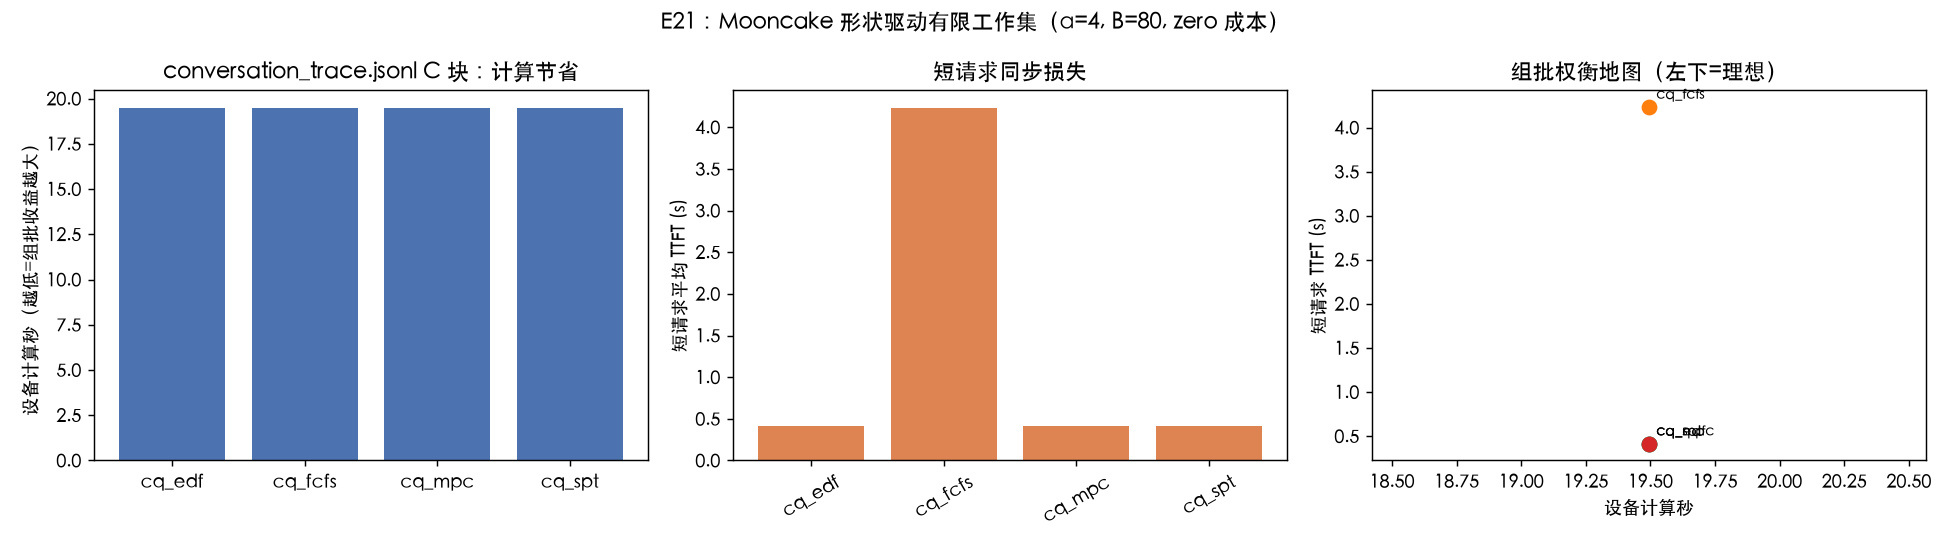
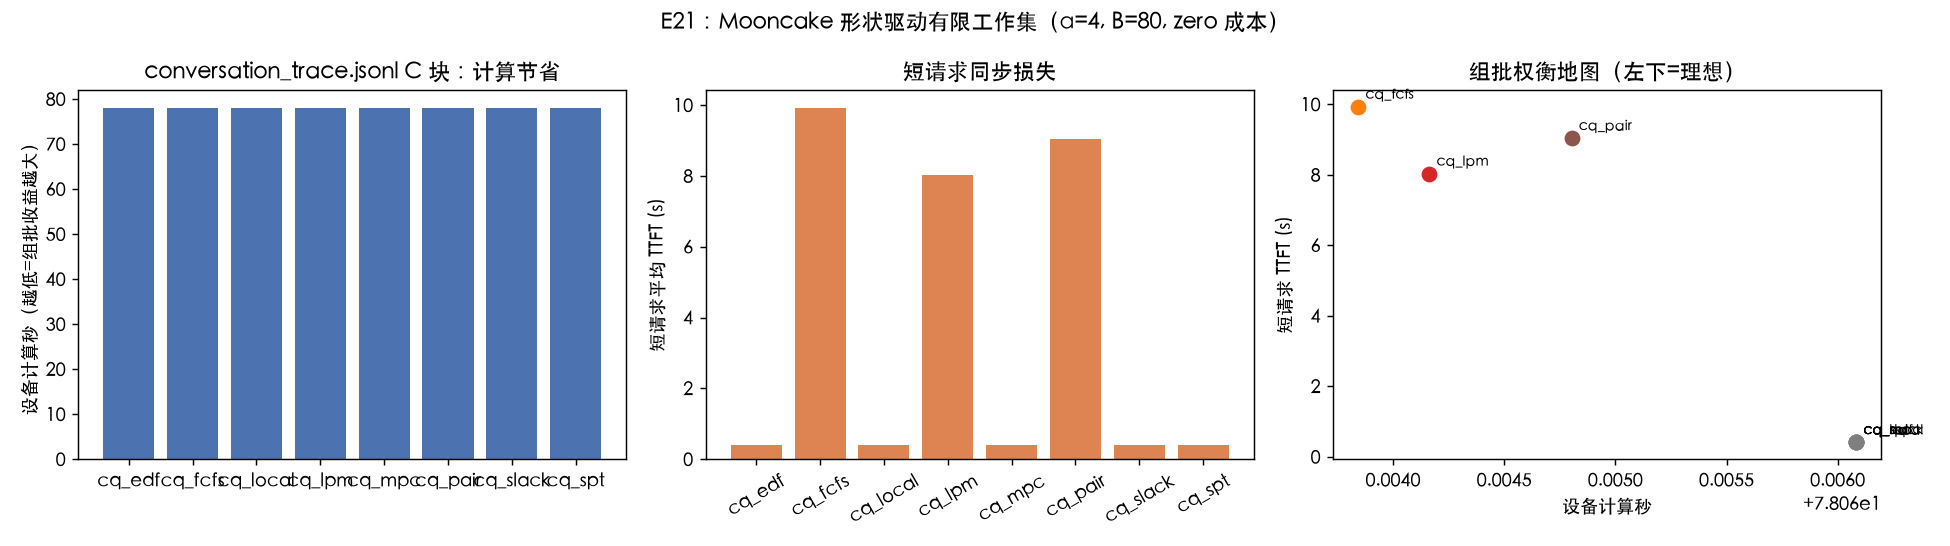
docs: 测试报告补 §3.7——E21/E24 全策略评价(720+69 runs)与 eval 图发布
- E21(8 策略×3 文件×5 窗×3 能力×2 profile):有限工作集上排序类满足率
  翻倍(0.072→0.138)、TTFT -60%,与在线流 §3.6 的 SLO 无增量方向相反且
  不矛盾(全体同时到达时无新到达插队惩罚)——划出收益适用边界;
  G_total=1.005 第三次确认组批计算节省≈0;MPC/local 与 SPT/EDF 仍一致
- E24(3 文件×信息/开销面板):重载锚点 FCFS>排序类;MPC 对 2-5ms 决策
  延迟的响应随文件而异,开销敏感性列为待扩展
- 图更新为 eval 版(e21/e24)

diff --git a/测试报告-E19E24实施-20260915.md b/测试报告-E19E24实施-20260915.md
@@ -222,6 +222,38 @@
 
 ---
 
+## 3.7 全策略评价(E21 / E24 eval,first_seen)
+
+### E21:组批权衡的 8 策略矩阵(720 runs,有限工作集)
+
+矩阵:8 策略 × 3 文件 × 窗口{0–4} × 能力块{A/B/C} × profile{default,no_speedup},每格取窗口前 128 条请求、全部同时到达(有限工作集,θ=T)。C 块(default)结果:
+
+| 策略 | SLO 满足率 | 平均 TTFT (s) | G_total |
+|---|---:|---:|---:|
+| cq_fcfs | 0.072 | 8.56 | 1.005 |
+| cq_lpm | 0.077 | 7.80 | 1.005 |
+| **cq_spt / cq_edf / cq_slack / cq_local / cq_mpc** | **0.138** | **3.39** | 1.005 |
+| cq_pair | 0.066 | 7.84 | 1.005 |
+
+A 块(禁止组批、纯排序):FCFS 0.147 vs 排序类 0.226(+7.9pp)。三点结论:
+
+1. **有限工作集上排序类满足率翻倍(0.072→0.138)、TTFT 减 60%**——与 §3.6 在线流的"SLO 无增量"**方向相反,且不矛盾**:有限工作集全体同时到达,短任务优先做完就轮到长任务,不存在"新到达持续插队把长请求推过 deadline"的机制;在线流里该机制正是惩罚来源。这划出了收益的适用边界。
+2. **G_total=1.005(所有策略相同)**:first_seen 口径下 u 中位数降数百,但批内 N 多数仍超 N_sat,组批计算节省依然≈0,结论第三次确认。
+3. MPC/local 与 SPT/EDF 仍完全一致(搜索无增量,同 §3.6 发现);cq_pair 行为接近 FCFS(锚定最老请求的到达序变体)。
+
+![E21 全策略组批权衡(eval)](docs/figures/cq_fig_e21_batch_tradeoff.png)
+
+### E24:信息与控制开销的三文件面板(69 runs)
+
+8 策略中取代表性策略(fcfs/slack/mpc)× 3 文件,锚点 B=20、ρ=0.9、α=4、θ=S:
+
+- 信息来源:history=current(σ=0 等价,行为正确);该重载锚点上 FCFS(0.078)> MPC(0.056)> Slack(0.052),与 §3.6 的 toolagent 模式一致——重载下排序类的长请求惩罚主导;
+- 控制开销:MPC 对 2–5ms 决策延迟的响应随文件而异(synthetic 上 0.077→0.083 反而改善,toolagent 微降),不再是冒烟单文件观察到的单调侵蚀——开销敏感性依赖负载,列为待扩展(measured 模式与更多延迟档)。
+
+![E24 鲁棒性(eval)](docs/figures/cq_fig_e24_robustness.png)
+
+---
+
 ## 4. 实现清单与规格对照
 
 | 规格 §11.1 拟新增路径 | 状态 | 要点 |
